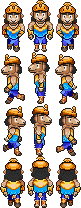
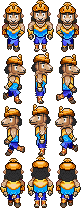
Adjust Turn queue layout

Changed region(s): [[0.3457, 0.2308, 0.9877, 0.75], [0.0, 0.2596, 0.321, 0.75]]

diff --git a/Scripts/Tanketai Sideview Battle System/Yami_Order_Gauge.rb b/Scripts/Tanketai Sideview Battle System/Yami_Order_Gauge.rb
@@ -73,9 +73,9 @@ module YSA
     # SHOW_DEATH = false
 
     # Coordinate-X of order gauge
-    GAUGE_X = 12
+    GAUGE_X = 500
     # Coordinate-Y of order gauge
-    GAUGE_Y = 120  # Moved up to accommodate vertical layout
+    GAUGE_Y = 60  # Moved up to accommodate vertical layout
 
     # Show Switch. Turn this switch on to show it. If you want to disable, set this
     # to 0.
@@ -297,7 +297,7 @@ class Sprite_OrderBattler < Sprite_Base
     @battler = battler
     @battle = battle
     @move_rate_x = 1
-    @move_rate_y = 1
+    @move_rate_y = 0.1
     @move_x = nil
     @move_y = nil
     @first_time = true
@@ -346,12 +346,6 @@ class Sprite_OrderBattler < Sprite_Base
     icon_index = @battler.actor? ? YSA::ORDER_GAUGE::BATTLER_ICON_BORDERS[:actor][1] : YSA::ORDER_GAUGE::BATTLER_ICON_BORDERS[:enemy][1]
     rect = Rect.new(icon_index % 16 * 24, icon_index / 16 * 24, 24, 24)
     bitmap.blt(0, 0, icon_bitmap, rect)
-    #--- Create Current Turn Indicator (position 2 for current battler only) ---
-    if @number == 0 
-      icon_index = @battler.actor? ? YSA::ORDER_GAUGE::BATTLER_ICON_BORDERS[:actor][2] : YSA::ORDER_GAUGE::BATTLER_ICON_BORDERS[:enemy][2]
-      rect = Rect.new((icon_index % 16 * 24), icon_index / 16 * 24, 24, 24)
-      bitmap.blt(bitmap.width - 24, 0, icon_bitmap, rect, 120)
-    end
     self.bitmap.dispose if self.bitmap != nil
     self.bitmap = bitmap
     return if @created_icon
@@ -615,6 +609,34 @@ class Scene_Battle < Scene_Base
       order = Sprite_OrderBattler.new(@spriteset.viewportOrder, battler, battle_type)
       @spriteset_order.push(order)
     end
+    
+    # Create static current turn indicator sprite
+    create_static_turn_indicator
+  end
+
+  #--------------------------------------------------------------------------
+  # new method: create_static_turn_indicator
+  #--------------------------------------------------------------------------
+  def create_static_turn_indicator
+    @static_turn_indicator = Sprite.new(@spriteset.viewportOrder)
+    bitmap = Bitmap.new(24, 24)
+    
+    if $imported["YEA-BattleEngine"]
+      icon_bitmap = $game_temp.iconset
+    else
+      icon_bitmap = Cache.system("IconSet")
+    end
+    
+    # Use the actor's turn indicator icon (position 2)
+    icon_index = YSA::ORDER_GAUGE::BATTLER_ICON_BORDERS[:actor][2]
+    rect = Rect.new(icon_index % 16 * 24, icon_index / 16 * 24, 24, 24)
+    bitmap.blt(0, 0, icon_bitmap, rect, 220)
+    
+    @static_turn_indicator.bitmap = bitmap
+    @static_turn_indicator.x = 12  # Same X as GAUGE_X
+    @static_turn_indicator.y = 60  # Same Y as GAUGE_Y
+    @static_turn_indicator.z = 1001  # Above other sprites
+    @static_turn_indicator.visible = false  # Initially hidden
   end
 
   #--------------------------------------------------------------------------
@@ -642,6 +664,11 @@ class Scene_Battle < Scene_Base
       order.bitmap.dispose
       order.dispose
     end
+    # Dispose static turn indicator
+    if @static_turn_indicator
+      @static_turn_indicator.bitmap.dispose
+      @static_turn_indicator.dispose
+    end
     order_gauge_dispose_spriteset
   end
 
@@ -659,6 +686,10 @@ class Scene_Battle < Scene_Base
     if $imported["YSA-PCTB"]
       type = YSA::PCTB::CTB_MECHANIC[:predict]
     end
+    
+    # Update static turn indicator visibility
+    update_static_turn_indicator
+    
     if @update_ordergauge
       if type && type == 1
         BattleManager.actor.restore_speed
@@ -682,6 +713,66 @@ class Scene_Battle < Scene_Base
     if $game_party.all_dead? || $game_troop.all_dead?
       @spriteset.viewportOrder.ox = Graphics.height if @spriteset.viewportOrder.ox != Graphics.width
       @spriteset.viewportOrder.oy = Graphics.width if @spriteset.viewportOrder.oy != Graphics.height
+    end
+  end
+
+  #--------------------------------------------------------------------------
+  # new method: update_static_turn_indicator
+  #--------------------------------------------------------------------------
+  def update_static_turn_indicator
+    return unless @static_turn_indicator
+    
+    # Show only when there's a current battler and order gauge is visible
+    if BattleManager.action_list_ctb && BattleManager.action_list_ctb[0]
+      current_battler = BattleManager.action_list_ctb[0]
+      
+      # Update icon based on current battler type
+      update_static_indicator_icon(current_battler)
+      
+      # Show/hide based on gauge visibility
+      gauge_visible = (YSA::ORDER_GAUGE::SHOW_SWITCH == 0 || $game_switches[YSA::ORDER_GAUGE::SHOW_SWITCH]) &&
+                      !($game_party.all_dead? || $game_troop.all_dead?)
+      @static_turn_indicator.visible = gauge_visible
+      
+      # Update position to follow current battler's position in queue
+      update_static_indicator_position(current_battler)
+    else
+      @static_turn_indicator.visible = false
+    end
+  end
+
+  #--------------------------------------------------------------------------
+  # new method: update_static_indicator_icon
+  #--------------------------------------------------------------------------
+  def update_static_indicator_icon(battler)
+    # Update icon based on battler type (actor vs enemy)
+    icon_index = battler.actor? ? YSA::ORDER_GAUGE::BATTLER_ICON_BORDERS[:actor][2] : YSA::ORDER_GAUGE::BATTLER_ICON_BORDERS[:enemy][2]
+    
+    if $imported["YEA-BattleEngine"]
+      icon_bitmap = $game_temp.iconset
+    else
+      icon_bitmap = Cache.system("IconSet")
+    end
+    
+    rect = Rect.new(icon_index % 16 * 24, icon_index / 16 * 24, 24, 24)
+    @static_turn_indicator.bitmap.clear
+    @static_turn_indicator.bitmap.blt(0, 0, icon_bitmap, rect, 220)
+  end
+
+  #--------------------------------------------------------------------------
+  # new method: update_static_indicator_position
+  #--------------------------------------------------------------------------
+  def update_static_indicator_position(battler)
+    # Position the static indicator at the current battler's queue position
+    # Find the battler's position in the order
+    if BattleManager.btype?(:pctb) && BattleManager.ctb_battlers
+      result = BattleManager.ctb_battlers.select { |b| !b.dead? && !b.hidden? }
+      index = result.index(battler)
+      if index
+        # Use the same vertical positioning logic as other sprites
+        @static_turn_indicator.x = -4 # Offset to the right of the queue
+        @static_turn_indicator.y = 12  # Same Y as current battler
+      end
     end
   end
 

diff --git a/Scripts/Tanketai Sideview Battle System/SideView- Action Setup.rb b/Scripts/Tanketai Sideview Battle System/SideView- Action Setup.rb
@@ -19,7 +19,7 @@ module N03
   # Actor Initial Start Position
   # 　                       1st          2nd          3rd          4th
   #                     X   Y   H    X   Y   H    X   Y   H    X   Y   H
-  ACTOR_POSITION = [[405, 220, 0], [460, 180, 0], [450, 260, 0], [510, 230, 0]]
+  ACTOR_POSITION = [[390, 250, 0], [430, 210, 0], [450, 280, 0], [480, 240, 0]]
   # Wait time after the end of each action in frames
   ACTION_END_WAIT = 20
   # Wait time after the end of each turn in frames
